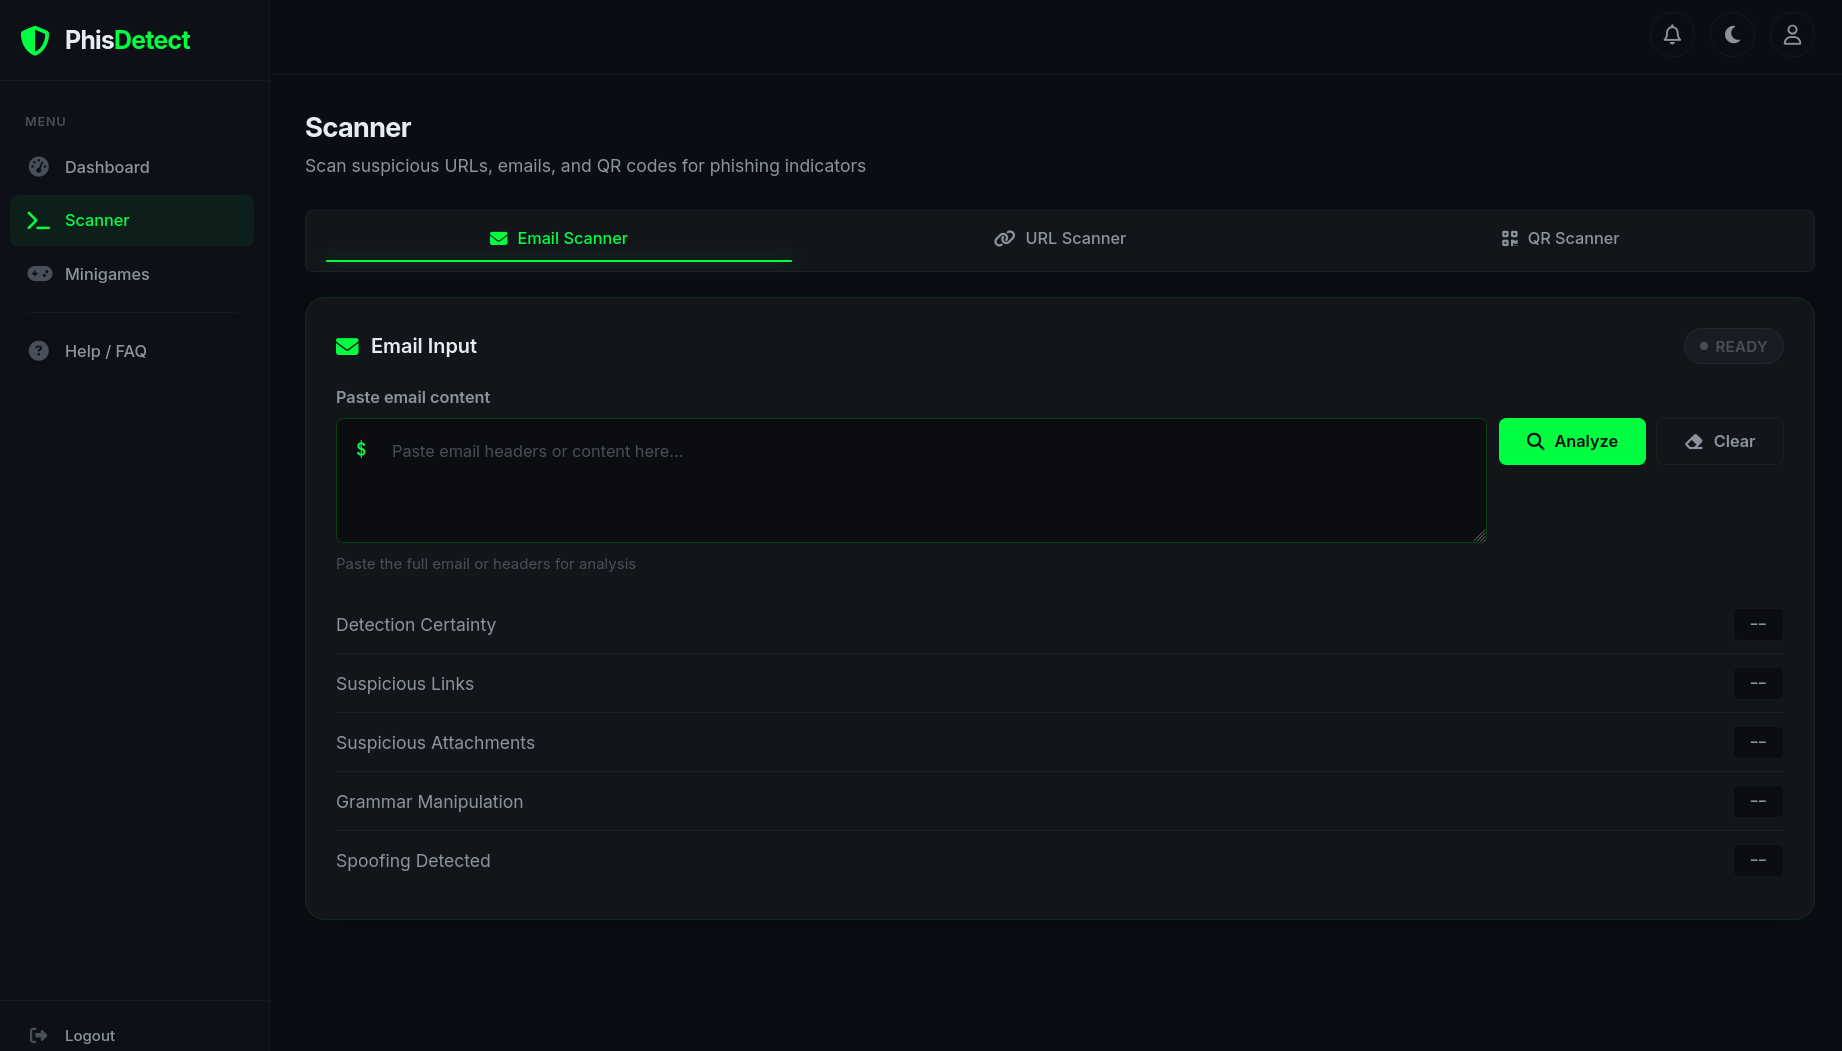
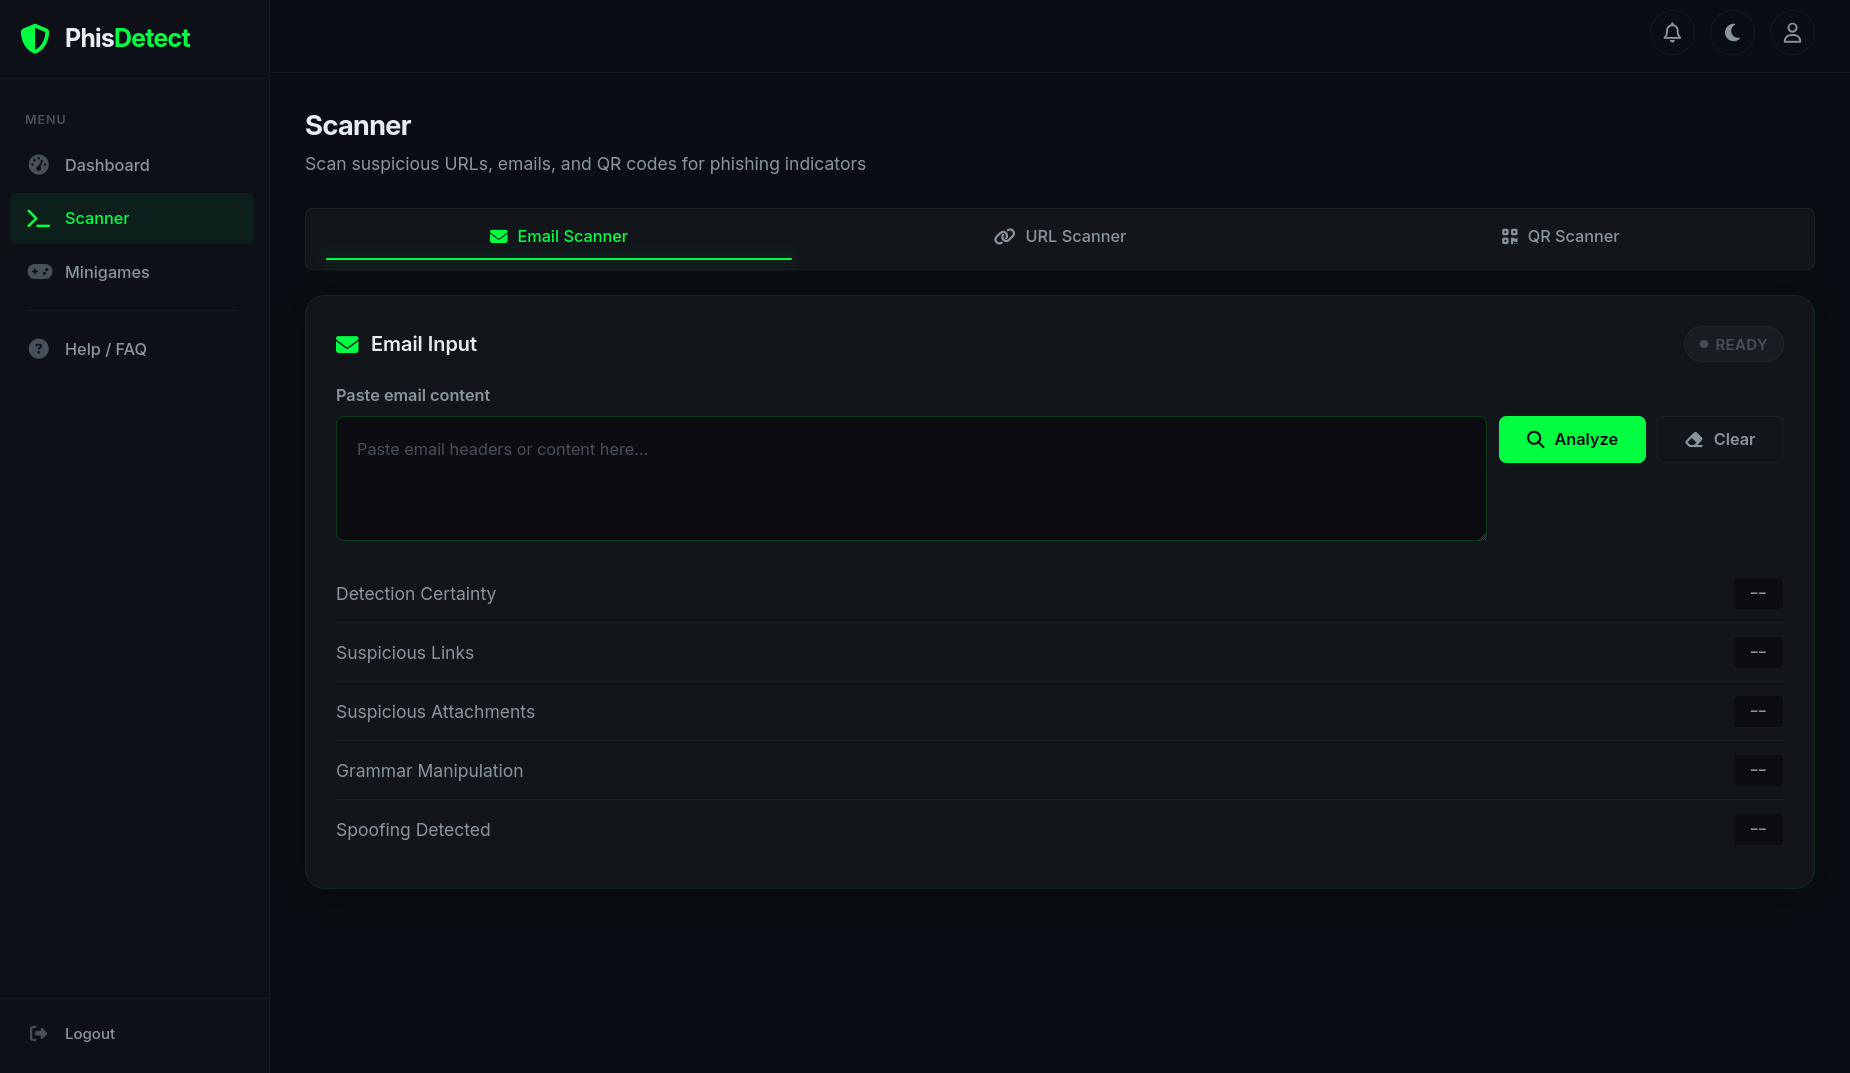
Clean up scanner input styling: remove terminal prompts and hint text

diff --git a/frontend/index.html b/frontend/index.html
@@ -206,7 +206,6 @@
                                     <label for="emailInput">Paste email content</label>
                                     <div class="input-row-start">
                                         <div class="input-terminal flex-1">
-                                            <span class="prompt prompt-textarea">$</span>
                                             <textarea
                                                 class="input-text input-textarea terminal-cursor"
                                                 id="emailInput"
@@ -225,7 +224,6 @@
                                             </button>
                                         </div>
                                     </div>
-                                    <span class="hint">Paste the full email or headers for analysis</span>
                                 </div>
 
                                 <div id="emailResults">
@@ -286,7 +284,6 @@
                                     <label for="urlInput">Enter suspicious URL</label>
                                     <div class="input-row">
                                         <div class="input-terminal flex-1">
-                                            <span class="prompt">$</span>
                                             <input
                                                 type="text"
                                                 class="input-text terminal-cursor"
@@ -304,10 +301,9 @@
                                             Clear
                                         </button>
                                     </div>
-                                    <span class="hint">Paste a URL to analyze for phishing indicators</span>
                                 </div>
 
-                                    <!-- Analysis Results -->
+                                <!-- Analysis Results -->
                                     <div id="urlResults">
                                         <div class="risk-label waiting hidden" id="urlRiskLabel"></div>
 

diff --git a/frontend/css/responsive.css b/frontend/css/responsive.css
@@ -278,7 +278,7 @@
     }
 
     .input-terminal .input-text {
-        padding-left: 38px;
+        padding-left: 16px;
     }
 
     /* Risk label */
@@ -691,7 +691,7 @@
     }
 
     .input-terminal .input-text {
-        padding-left: 32px;
+        padding-left: 16px;
     }
 
     .input-group label {
@@ -1131,7 +1131,7 @@
     }
 
     .input-terminal .input-text {
-        padding-left: 28px;
+        padding-left: 16px;
     }
 
     .risk-label {

diff --git a/frontend/css/components.css b/frontend/css/components.css
@@ -371,11 +371,11 @@
 }
 
 .input-terminal .input-text {
-    padding-left: 44px;
+    padding-left: 16px;
 }
 
 .input-terminal .input-textarea {
-    padding-left: 44px;
+    padding-left: 16px;
     padding-top: 14px;
     min-height: 100px;
 }
